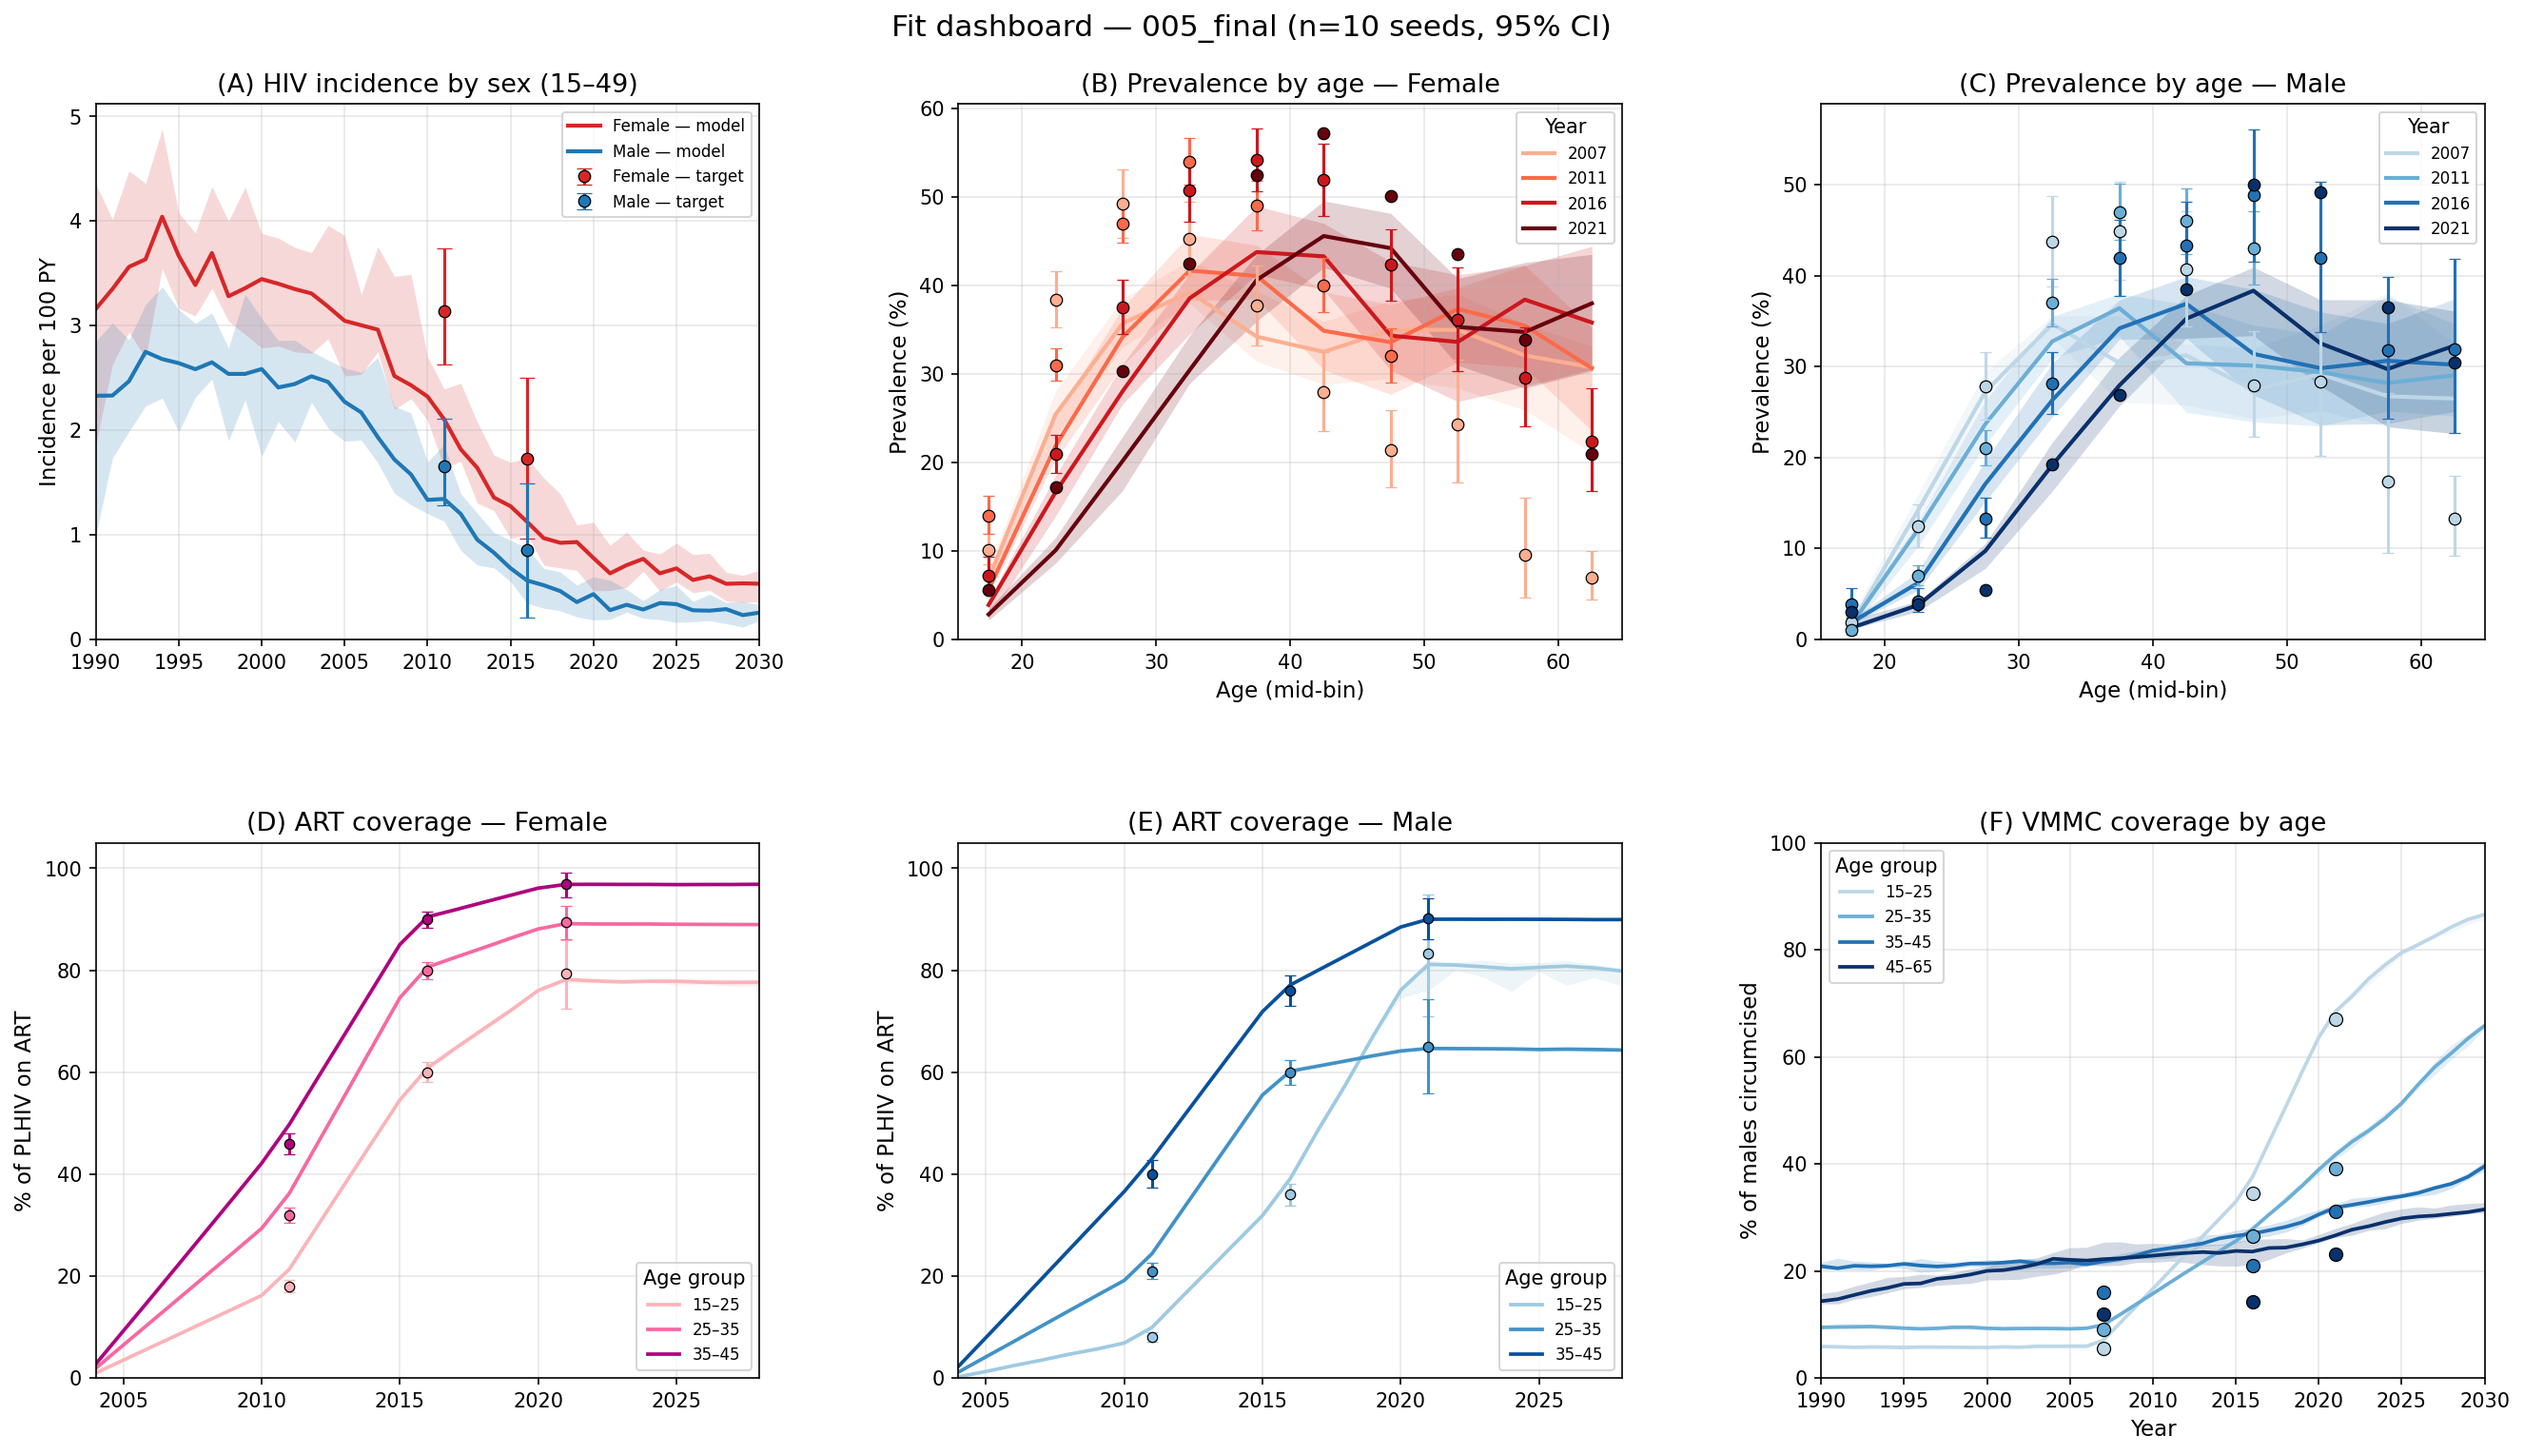
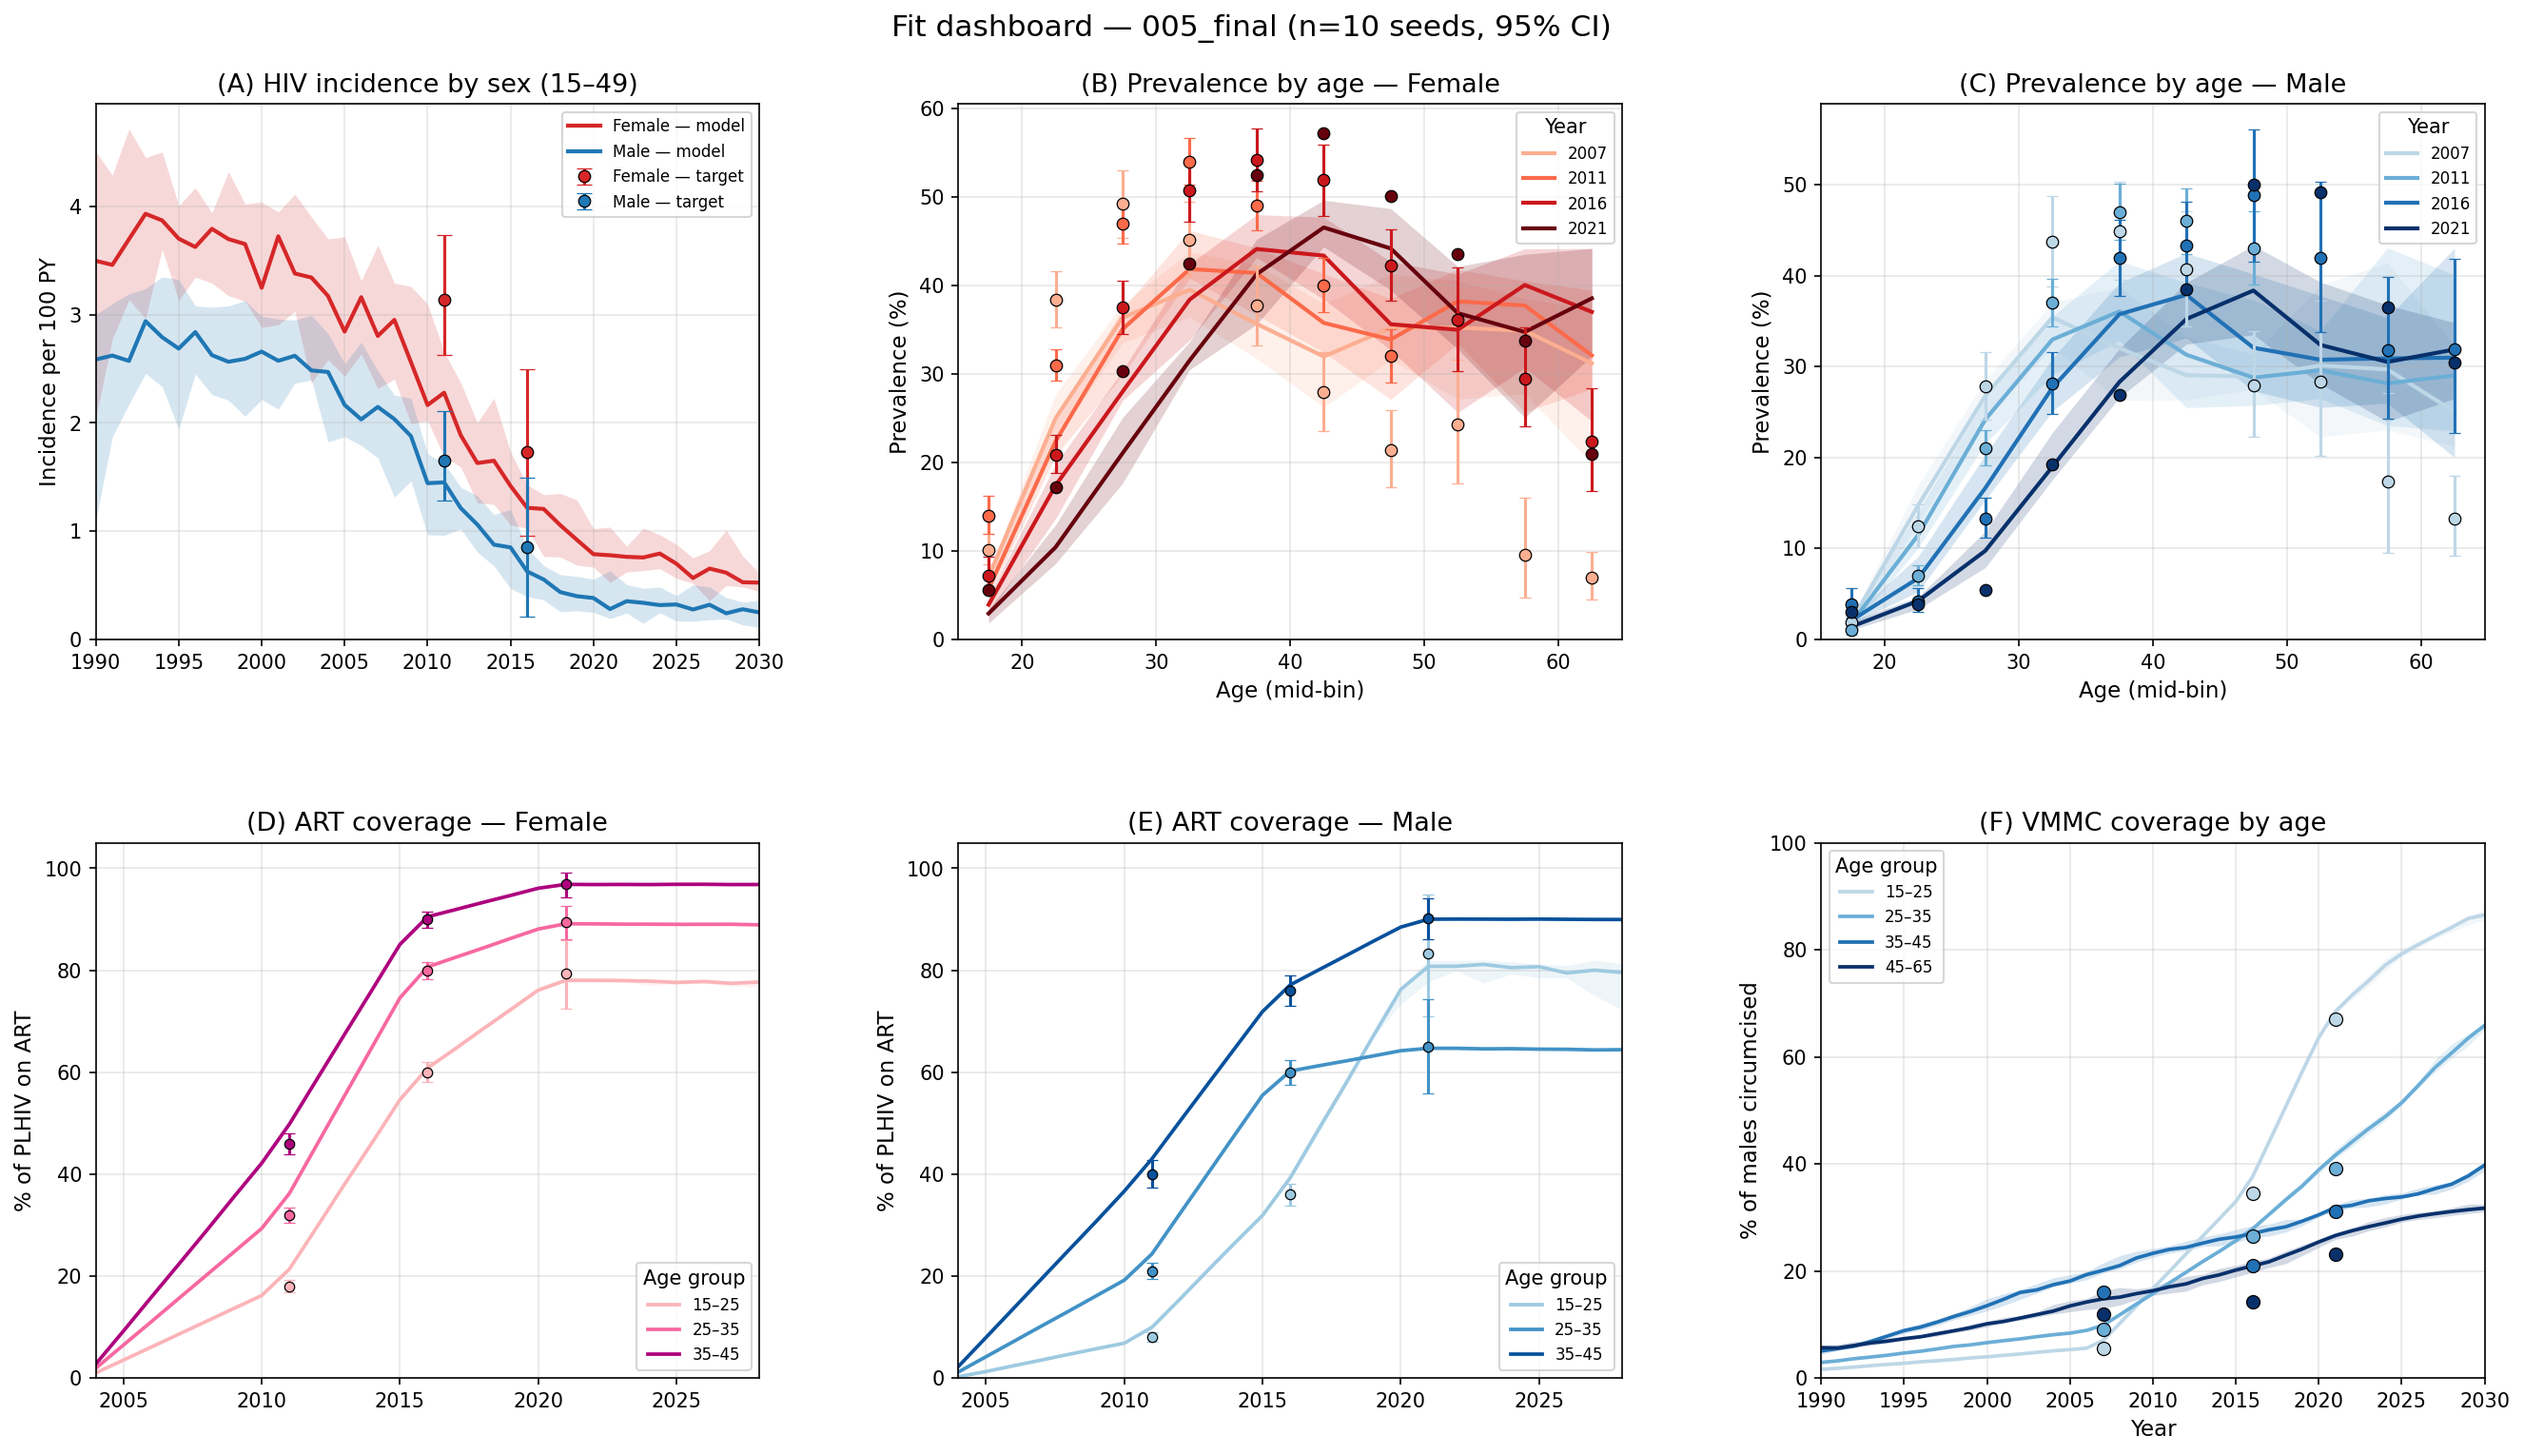
Lower VMMC pre-program baseline (1990 anchor) and validate 2007 vs SDHS
The initial 005 CSV only had 2007/2016/2021 anchors. sc.smoothinterp holds
boundary values constant outside the data range, so pre-2007 the model
targeted the SDHS 2007 [35,40)=0.20 value all the way back to 1985 — a
20% pre-program baseline for that cohort, which is unrealistic for the
pre-VMMC-program era.

Fix: added a 1990 anchor row with low values (0.005-0.04) calibrated to
SHIMS3 nonmedical-MMC rates (which capture lifetime traditional MC).
Pre-2007 trajectory now ramps linearly from low traditional baseline
up to SDHS 2007 values rather than holding flat at 20%.

User-provided SDHS 2007 data validates the EMOD JSON 2007 values for
15-49 within rounding — including the 35-39 bump (SDHS 2007: 19.7%,
JSON: 0.20). The bump reflects cohort 1968-1972 having elevated
traditional MC (per SDHS, 56.9% of those circumcisions happened
pre-age-13). 50+ values remain EMOD extrapolations since SDHS 2007
didn't survey men 50+.

Re-ran 10-seed dashboards with the corrected baseline. Pre-2000 MMC
now ~4-5% across age bins (was 4-20% with the old extrapolation).

diff --git a/experiments/log.md b/experiments/log.md
@@ -247,7 +247,7 @@ Adopt all three changes as the new baseline (committed to `run_sims.py`). Defer 
 ### Data triangulation
 
 See `experiments/005_vmmc/notes.md` for full detail. Summary:
-- **2007 values**: from EMOD JSON (SDHS 2006-07 — verified for young ages; ages 40+ are flat at 0.12 and likely placeholder)
+- **2007 values**: from EMOD JSON, **validated against actual SDHS 2007 data** (15-19 through 45-49 match within rounding; the [35,39)=0.197 ≈ 0.20 anomaly is a real cohort effect, not a placeholder). 50+ values remain EMOD extrapolations since SDHS 2007 didn't survey men 50+.
 - **2016 values**: from EMOD JSON (SHIMS2 — strongly age-stratified, well-attested)
 - **2021 values**: replaced with **SHIMS3 official Table 12.5** (medical + nonmedical circumcision prevalence by 5-year bin), found in `data/241123_SHIMS_ENG_RR3_Final-1.pdf`. Cross-checks: SHIMS3 reports 47.2% medical + 1.1% nonmedical = 48.3% total for 15-49.
 - The EMOD 2021 values were "EXTRAPOLATED" per the JSON comment. They turned out
@@ -301,3 +301,9 @@ The network dashboard's panel C (condom use by partnership) still shows the *uns
 ### Decision
 
 Adopt VMMC integration as the new baseline. Male incidence under-prediction is a known consequence of adding the VMMC effect without re-calibrating `beta_m2f` — the right place to address it is the VM-based recalibration cycle, with `condom_scale`, `eff_circ`, `rel_sus_age` and the existing free parameters jointly tuned. Proceed to experiment 006: cherry-pick Bellan acute params (`a5e9ec1`).
+
+### Followup (same-day): pre-program baseline correction
+
+The initial 005 commit had only 2007/2016/2021 data points in the CSV, which caused `sc.smoothinterp` to propagate the SDHS 2007 [35,40)=0.20 value back to the sim start (1985). Pre-2000 [35,40) MMC was therefore an unrealistic 20%.
+
+Fix: added a **1990 anchor row** to `data/vmmc_coverage.csv` with values 0.005–0.04 calibrated to SHIMS3 nonmedical-MMC rates. Pre-2007 trajectory now ramps linearly from low traditional-MC baseline up to the validated SDHS 2007 values. User confirmed SDHS 2007 measurements directly, validating the EMOD JSON for 15-49 within rounding (including the 35-39 bump).

diff --git a/experiments/005_vmmc/notes.md b/experiments/005_vmmc/notes.md
@@ -107,13 +107,46 @@ with SHIMS3 (recollection: 50–60%), though slightly low. Possible explanations
 slightly low vs SHIMS2 actuals, (3) the 2021 projections are conservative. Worth
 cross-checking against the actual SHIMS3 report when available.
 
-### Pre-2007 era
+### Pre-program baseline (1990 anchor — added in followup)
 
-The CSV includes only 2007/2016/2021 data points. Stisim's `smoothinterp` will
-hold the 2007 values constant for years before 2007 (sim starts 1985). This
-implies low-baseline MMC (~4–20% by age) throughout the pre-program era, which
-roughly approximates traditional MC. For the experiment's calibration window
-(2007+), this is fine.
+`sc.smoothinterp` holds boundary values constant outside the data range, so the
+earliest data point in the CSV becomes the "1985 baseline" by extrapolation.
+With only 2007/2016/2021 anchors, this propagated the SDHS 2007 [35,40)=0.20
+value back to 1985, giving an unrealistically high 20% MC baseline for that
+cohort in the 1980s.
+
+Fix: added a **1990 anchor row** with low values calibrated to SHIMS3 nonmedical
+MMC (which captures lifetime traditional MC):
+
+| Age bin | 1990 baseline |
+|---|---|
+| [10,15) | 0.005 |
+| [15,20) | 0.01 |
+| [20,25)–[25,30) | 0.02 |
+| [30,35) | 0.03 |
+| [35,40)–[60,65) | 0.04 |
+
+Pre-2007 trajectory now linearly ramps from 1990 baseline to SDHS 2007 values.
+Pre-1990 (rare in sim — start year is 1985) is held constant at 1990 baseline.
+
+### SDHS 2007 validation
+
+User provided actual SDHS 2007 circumcision-by-age data, which validates the
+EMOD JSON 2007 values (and confirms the [35,40)=0.20 is real, not placeholder):
+
+| Age | SDHS 2007 % | EMOD/CSV |
+|---|---|---|
+| 15-19 | 4.2 | 0.04 ✓ |
+| 20-24 | 6.5 | 0.07 ✓ |
+| 25-29 | 7.9 | 0.08 ✓ |
+| 30-34 | 9.9 | 0.10 ✓ |
+| 35-39 | **19.7** | **0.20 ✓** |
+| 40-44 | 12.5 | 0.12 ✓ |
+| 45-49 | 11.9 | 0.12 ✓ |
+
+The 35-39 bump is real (cohort born 1968-1972 had elevated traditional MC; SDHS
+shows 56.9% of those circumcisions happened pre-age-13). 50+ values are EMOD
+extrapolations since SDHS 2007 didn't survey men 50+.
 
 ## Scope of experiment 005
 
